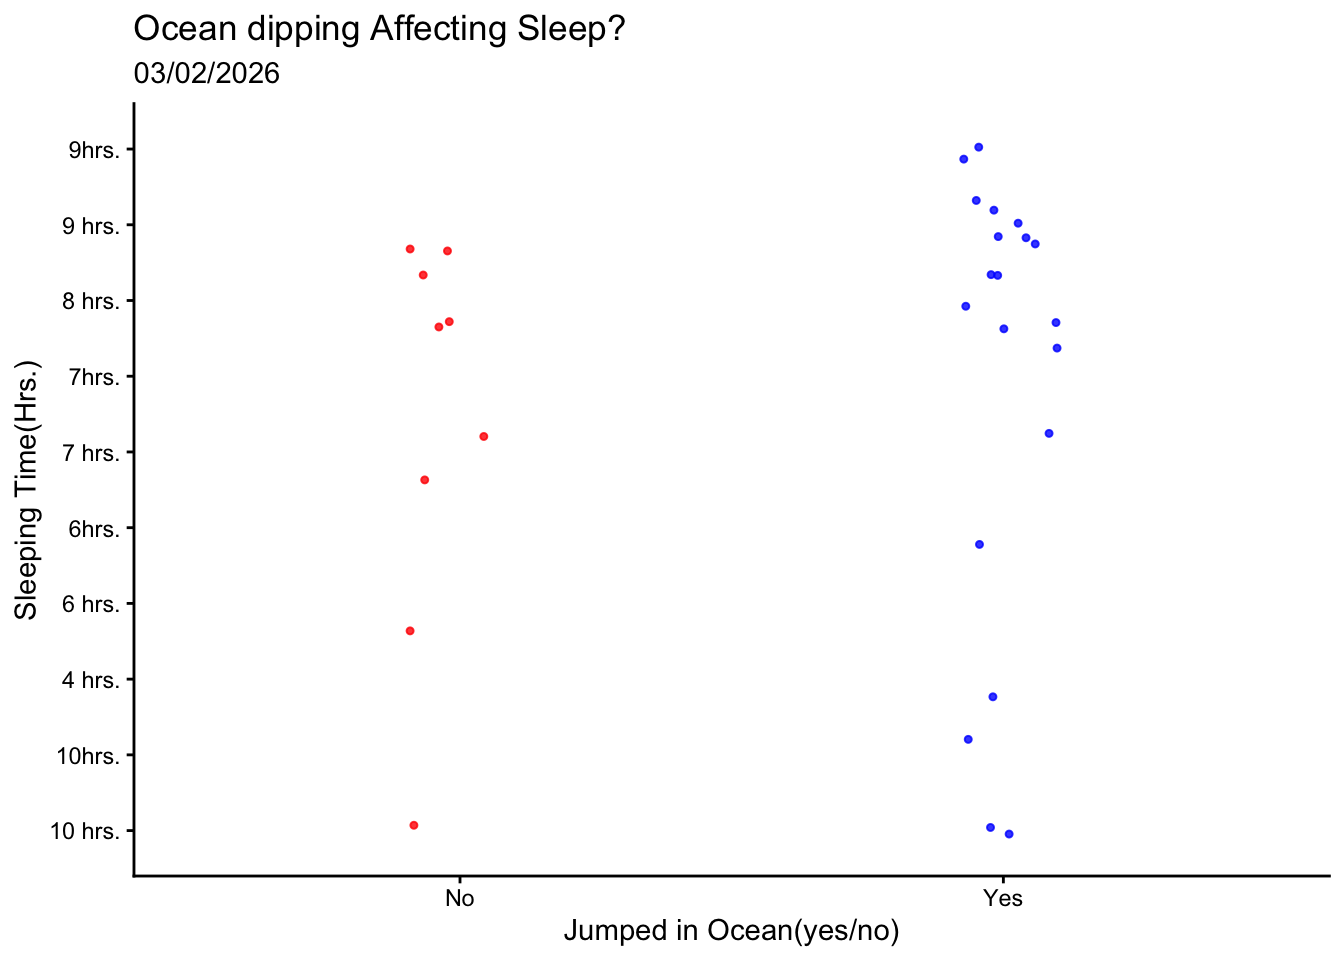
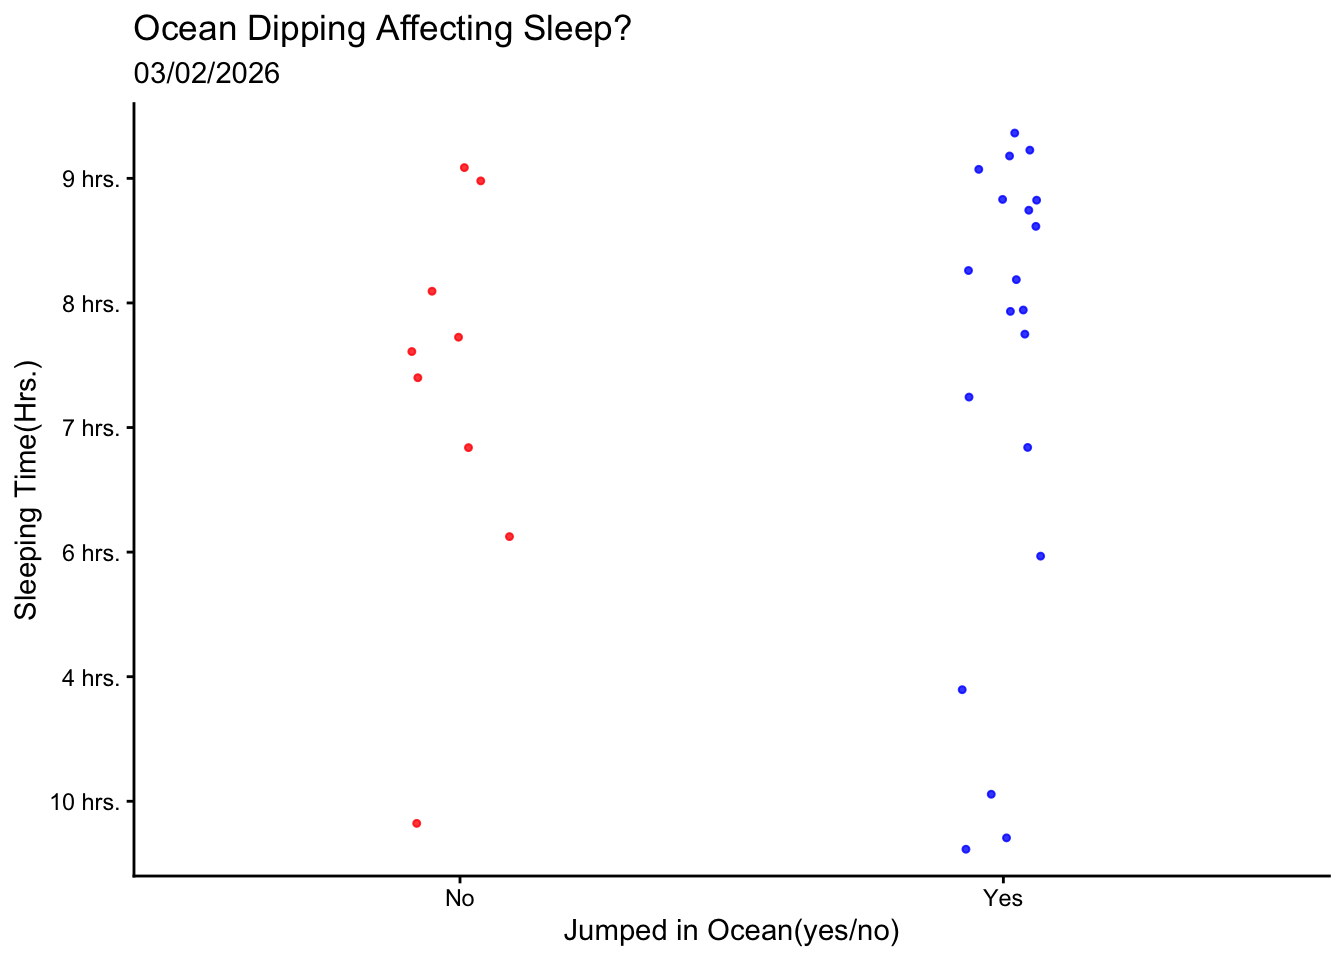
Rendering quarto

diff --git a/Homework-03.html b/Homework-03.html
@@ -248,6 +248,7 @@ sample estimates:
 </div>
 </div>
 </div>
+<p>Biking time(in mins.) calculated based on individual instances of wearing flip flops(n=30). Green points indicate non wearing flip flop times and red points indicate wearing flip flop times. The most recent calculated time was on 03/05/2026</p>
 <div class="cell">
 <div class="code-copy-outer-scaffold"><div class="sourceCode cell-code" id="cb10"><pre class="sourceCode r code-with-copy"><code class="sourceCode r"><span id="cb10-1"><a href="#cb10-1" aria-hidden="true" tabindex="-1"></a>Sleep_data <span class="ot">&lt;-</span> my_data_2_autrin <span class="co">#Changing data set name</span></span>
 <span id="cb10-2"><a href="#cb10-2" aria-hidden="true" tabindex="-1"></a>Sleep_data <span class="ot">&lt;-</span> Sleep_data[<span class="sc">-</span><span class="dv">1</span>,] <span class="sc">|&gt;</span> <span class="co">#removing N/A column from data set</span></span>
@@ -267,7 +268,7 @@ sample estimates:
 <span id="cb10-16"><a href="#cb10-16" aria-hidden="true" tabindex="-1"></a>  <span class="fu">labs</span>(</span>
 <span id="cb10-17"><a href="#cb10-17" aria-hidden="true" tabindex="-1"></a>    <span class="at">x =</span> <span class="st">"Jumped in Ocean(yes/no)"</span>, <span class="co">#name x-axis</span></span>
 <span id="cb10-18"><a href="#cb10-18" aria-hidden="true" tabindex="-1"></a>    <span class="at">y =</span> <span class="st">"Sleeping Time(Hrs.)"</span>, <span class="co">#name y-axis</span></span>
-<span id="cb10-19"><a href="#cb10-19" aria-hidden="true" tabindex="-1"></a>    <span class="at">title =</span> <span class="st">"Ocean dipping Affecting Sleep?"</span>, <span class="co">#add title</span></span>
+<span id="cb10-19"><a href="#cb10-19" aria-hidden="true" tabindex="-1"></a>    <span class="at">title =</span> <span class="st">"Ocean Dipping Affecting Sleep?"</span>, <span class="co">#add title</span></span>
 <span id="cb10-20"><a href="#cb10-20" aria-hidden="true" tabindex="-1"></a>    <span class="at">subtitle =</span> <span class="st">"03/02/2026"</span>) <span class="sc">+</span> <span class="co">#add subtitle</span></span>
 <span id="cb10-21"><a href="#cb10-21" aria-hidden="true" tabindex="-1"></a>  <span class="fu">theme_classic</span>() <span class="sc">+</span> <span class="co">#background to white</span></span>
 <span id="cb10-22"><a href="#cb10-22" aria-hidden="true" tabindex="-1"></a>  <span class="fu">theme</span>(<span class="at">legend.position =</span> <span class="st">"none"</span>) <span class="co">#remove legend</span></span></code></pre></div><button title="Copy to Clipboard" class="code-copy-button"><i class="bi"></i></button></div>
@@ -279,6 +280,20 @@ sample estimates:
 </div>
 </div>
 </div>
+<p>Sleeping time related to jumping in the ocean. Red points show days not jumped in the ocean and blue points show days jumped in the ocean(n=30).</p>
+</section>
+<section id="problem-3" class="level1">
+<h1>Problem 3</h1>
+<p>a.</p>
+<p>For my biking data, I am thinking of connecting my scatter plot to make a bath and have my no side be flip-flops riding bikes and my yes side be shoes riding bikes . For the sleeping data, I’m thinking of connecting the points to make waves and change all the points inside into z’s. The idea would be to include my main variables with the points on the graph.</p>
+<p>b.</p>
+<p><img src="images/IMG_2201.jpeg" class="img-fluid" width="330"></p>
+<p>c.</p>
+<p><img src="images/IMG_2202.jpeg" class="img-fluid" width="340"></p>
+<p>d.</p>
+<p>For my final ideas I changed my two graphs. For the biking one, I made each point a bike wheel and made it so the wheels got bigger the higher they went(indicating more time), I still had flip flops riding the “yes” bikes and shoes riding the “no” bikes. For the sleeping one, I put a bed under the points and made all the points into Z’s, and on the yes side i drew the bed and z’s inside a wave. This was a sketch that was sparked by my original idea. I wanted a cartoon sort of idea that involved both variables.</p>
+<p>e.</p>
+<p>Click “<a href="Presentation3.pptx">view</a>” to see slides</p>
 </section>
 
 </main>
